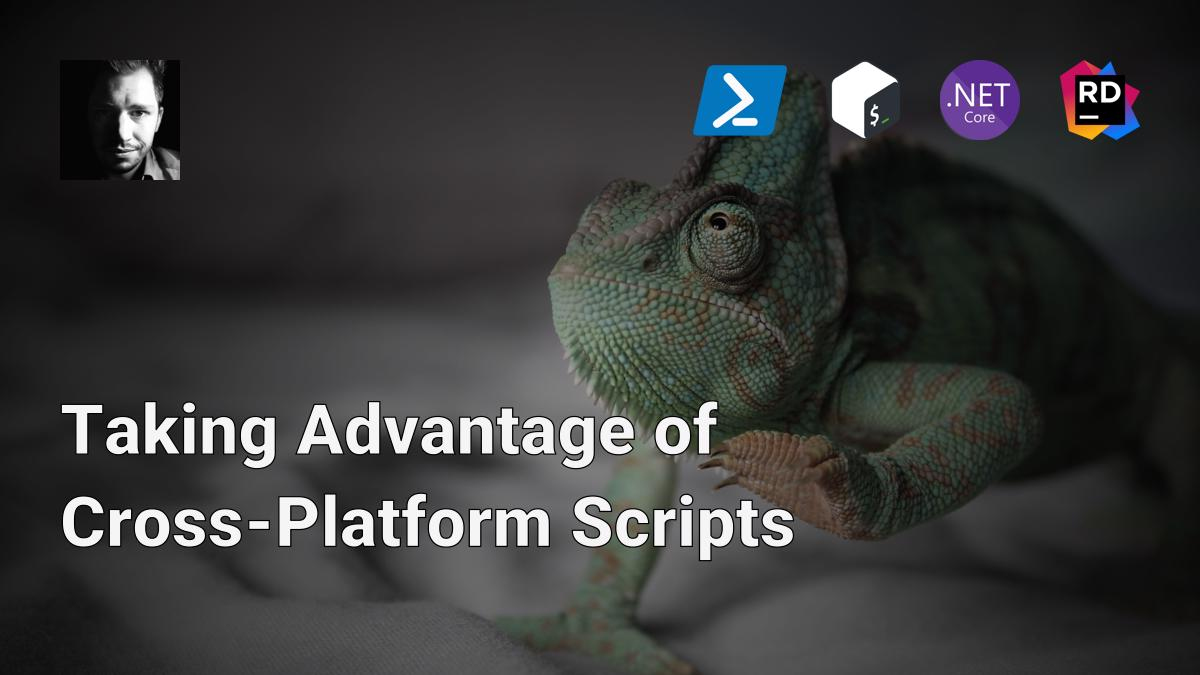
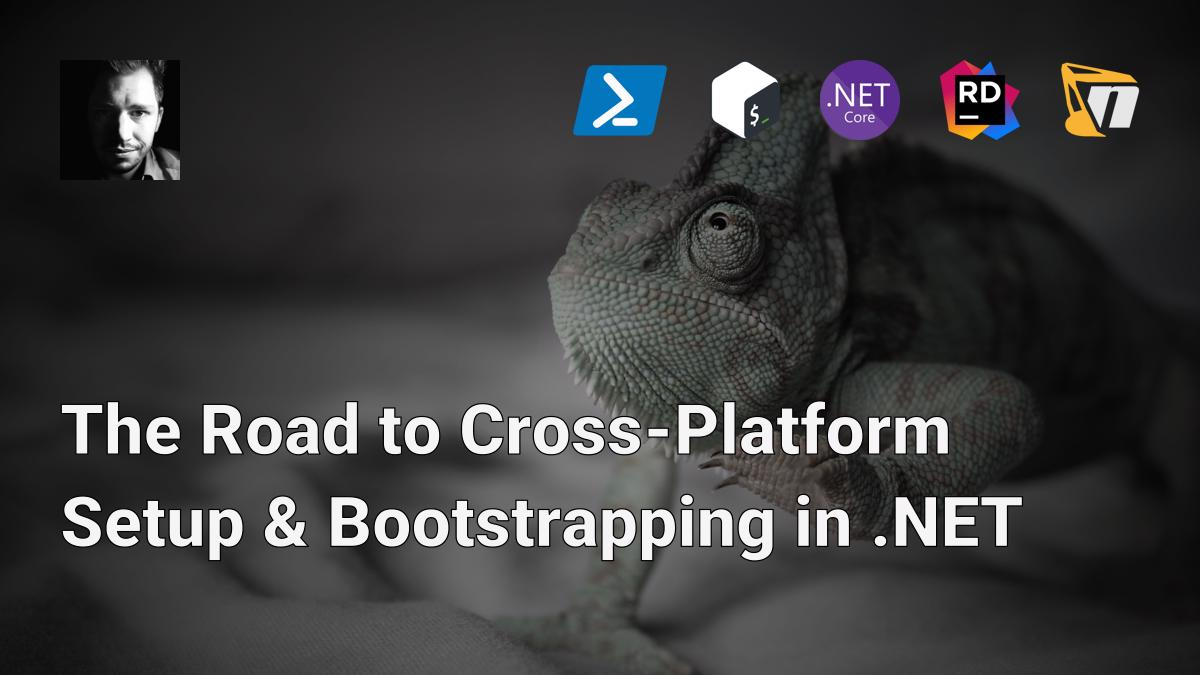
bla

Changed region(s): [[0.0308, 0.5911, 0.8633, 0.84], [0.4625, 0.0622, 0.9558, 0.2178]]

diff --git a/_posts/2020-07-01-road-to-cross-platform-setup-and-bootstrapping-in-dotnet.md b/_posts/2020-07-01-road-to-cross-platform-setup-and-bootstrapping-in-dotnet.md
@@ -20,9 +20,9 @@ article_header:
 
 ***TL;DR: PowerShell and Bash scripts are indispensable for developers. While benefiting from being transparent compared to executables, they're not exactly easy to read by users nor easy to write by maintainers, and also suffer from duplication for different operating systems. With the .NET Core SDK, this issue is mostly solved using .NET Global Tools. Nevertheless, global tools come at the cost of requiring the SDK to be pre-installed. Several workarounds for local and build server environments exist, however, shell scripts are really the only solid solution. Single-entry scripts can help to erase the last relics from PowerShell and Bash scripts for documentation and end-users.***
 
-When I started with [NUKE](https://nuke.build), part of the hardest work was to provide a convenient setup experience. NUKE was one of the first build systems to use conventional [console applications](https://docs.microsoft.com/en-us/dotnet/core/tutorials/with-visual-studio-code) in order to support first-class development experience, including navigation, debugging, and refactorings. [BullsEye](https://github.com/adamralph/bullseye) and [FlubuCore](https://github.com/dotnetcore/FlubuCore) followed shortly after. Noteworthy, they come in a more simple form where the build project is isolated from the main solution by default. In contrast (but not as requirement), NUKE allows us to **add the build project to the solution** besides other projects to make it more accessible. This approach works really great, but it does require some **tedious tweaks that are good to automate**.
+When I started with [NUKE](https://nuke.build), part of the hardest work was to provide a convenient setup experience. NUKE was one of the first build systems to use conventional [console applications](https://docs.microsoft.com/en-us/dotnet/core/tutorials/with-visual-studio-code) in order to support first-class development experience. [BullsEye](https://github.com/adamralph/bullseye) and [FlubuCore](https://github.com/dotnetcore/FlubuCore) followed shortly after. Noteworthy, they come in a more simple form where the build project is isolated from the main solution by default. In contrast but not necessarily, NUKE allows us to **add the build project to the solution** besides other projects to make it more accessible. This approach works really great, but it does require some **tedious tweaks that are good to automate**. Another natural consequence of using build projects, is that they **require a .NET Core SDK installation** to build and run, which is crucial for build servers and new project contributors.
 
-In the next sections, we'll look at how the setup experience evolved from complex PowerShell and Bash scripts to using .NET Global Tools, and how everything became more cross-platform and self-contained.
+In the next sections, we'll look at how the setup experience in NUKE evolved from complex PowerShell and Bash scripts to using .NET Global Tools, and how the .NET Core bootstrapping via shell scripts makes everything more cross-platform and self-contained.
 
 ## Hacking Shell Scripts
 
@@ -63,7 +63,7 @@ Using the [Bash support](https://plugins.jetbrains.com/plugin/4230-bashsupport) 
 
 Even though the plugins helped a lot, honestly, I can't say that I really enjoyed maintaining the setup scripts. I've **never felt familiar with the code** after coming back, and there were plenty of stupid and surprising issues, like [missing parentheses](https://github.com/nuke-build/nuke/pull/28) or [crashes if IE wasn't started once before](https://github.com/nuke-build/nuke/issues/11).
 
-## Unification with Global Tools
+## Setup with Global Tools
 
 With `netcoreapp2.1` the .NET Core SDK introduced [.NET Global Tools](https://docs.microsoft.com/en-us/dotnet/core/tools/global-tools) and since NUKE meanwhile established a reasonable community, I've decided that it's okay [moving towards a unified executable](https://github.com/nuke-build/nuke/issues/26):
 
@@ -78,9 +78,9 @@ nuke :setup
 
 That day the [shell scripts have been replaced by a global tool](https://github.com/nuke-build/nuke/commit/2481d251d9d4a7b090632a879a0c93221c146ee0), I could delete 400 LOC that were basically duplicated and hard to maintain, and replace them with roughly 300 lines of clean C# code.
 
-## Installation of .NET Core SDK
+## Bootstrapping .NET Core SDK
 
-Another difference compared to BullsEye and FlubuCore, is that NUKE provides bootstrapping scripts that will install the .NET Core SDK. As an example, here is the `build.sh` script:
+Another difference compared to BullsEye and FlubuCore, is that NUKE provides bootstrapping scripts that will install the .NET Core SDK without any further requirements. As an example, here is the `build.sh` script:
 
 {% highlight bash linenos %}
 #!/usr/bin/env bash
@@ -147,7 +147,7 @@ echo "Microsoft (R) .NET Core SDK version $("$DOTNET_EXE" --version)"
 "$DOTNET_EXE" run --project "$BUILD_PROJECT_FILE" --no-build -- "$@"
 {% endhighlight %}
 
-The bootstrapping scripts are very important to run on build servers, since the required .NET Core SDK might not be installed. Now, many will say that there is the [_Use .NET Core_ task](https://docs.microsoft.com/en-us/azure/devops/pipelines/tasks/tool/dotnet-core-tool-installer?view=azure-devops) that will perform an [install according to the `global.json`](https://docs.microsoft.com/en-us/dotnet/core/tools/global-json?tabs=netcore3x#globaljson-schema) file, but this approach has several disadvantages. Firstly, a similar task **might not exist on the particular build server** you're using. Also, predefined tasks tend to be **very inflexible** and eventually force us to use [hacky workarounds](https://github.com/actions/setup-dotnet/issues/25#issuecomment-646925506) or reconsider going back to shell scripts:
+The bootstrapping scripts are very important to run on build servers, since the required .NET Core SDK might not be installed. Now, many will say that there is the [_Use .NET Core_ task](https://docs.microsoft.com/en-us/azure/devops/pipelines/tasks/tool/dotnet-core-tool-installer?view=azure-devops) that will perform an [install according to the `global.json`](https://docs.microsoft.com/en-us/dotnet/core/tools/global-json?tabs=netcore3x#globaljson-schema) file, but this approach has several disadvantages. Firstly, a similar task **might not exist on the particular build server** we're using. Also, predefined tasks tend to be **very inflexible** and eventually force us to use [hacky workarounds](https://github.com/actions/setup-dotnet/issues/25#issuecomment-646925506) or reconsider going back to shell scripts:
 
 <div class="tweet" tweetID="1274641221693169664">I cannot believe that it is not officially supported by Github actions to have multiple versions of the .NET Core SDK installed.</div>
 
@@ -155,7 +155,7 @@ Even more importantly, with the rapid evolution of C# as a language, chances are
 
 <div class="tweet" tweetID="1169028787427827712">Blogged: Managing your .NET Core SDK versions with the .NET Install SDK Global Tool</div>
 
-Remember that this requires at least some .NET Core SDK to be installed. Also keep in mind that this is a manual step and the tool needs to be installed on your colleagues or contributors machine.
+Remember that this requires at least some .NET Core SDK to be installed. Also keep in mind that this is a manual step and the tool needs to be installed on our colleagues or contributors machine.
 
 <!--
 - https://github.com/cake-build/cake/blob/0eaee7e2a7d95611b1de58b40493f550ced31c78/build.ps1
